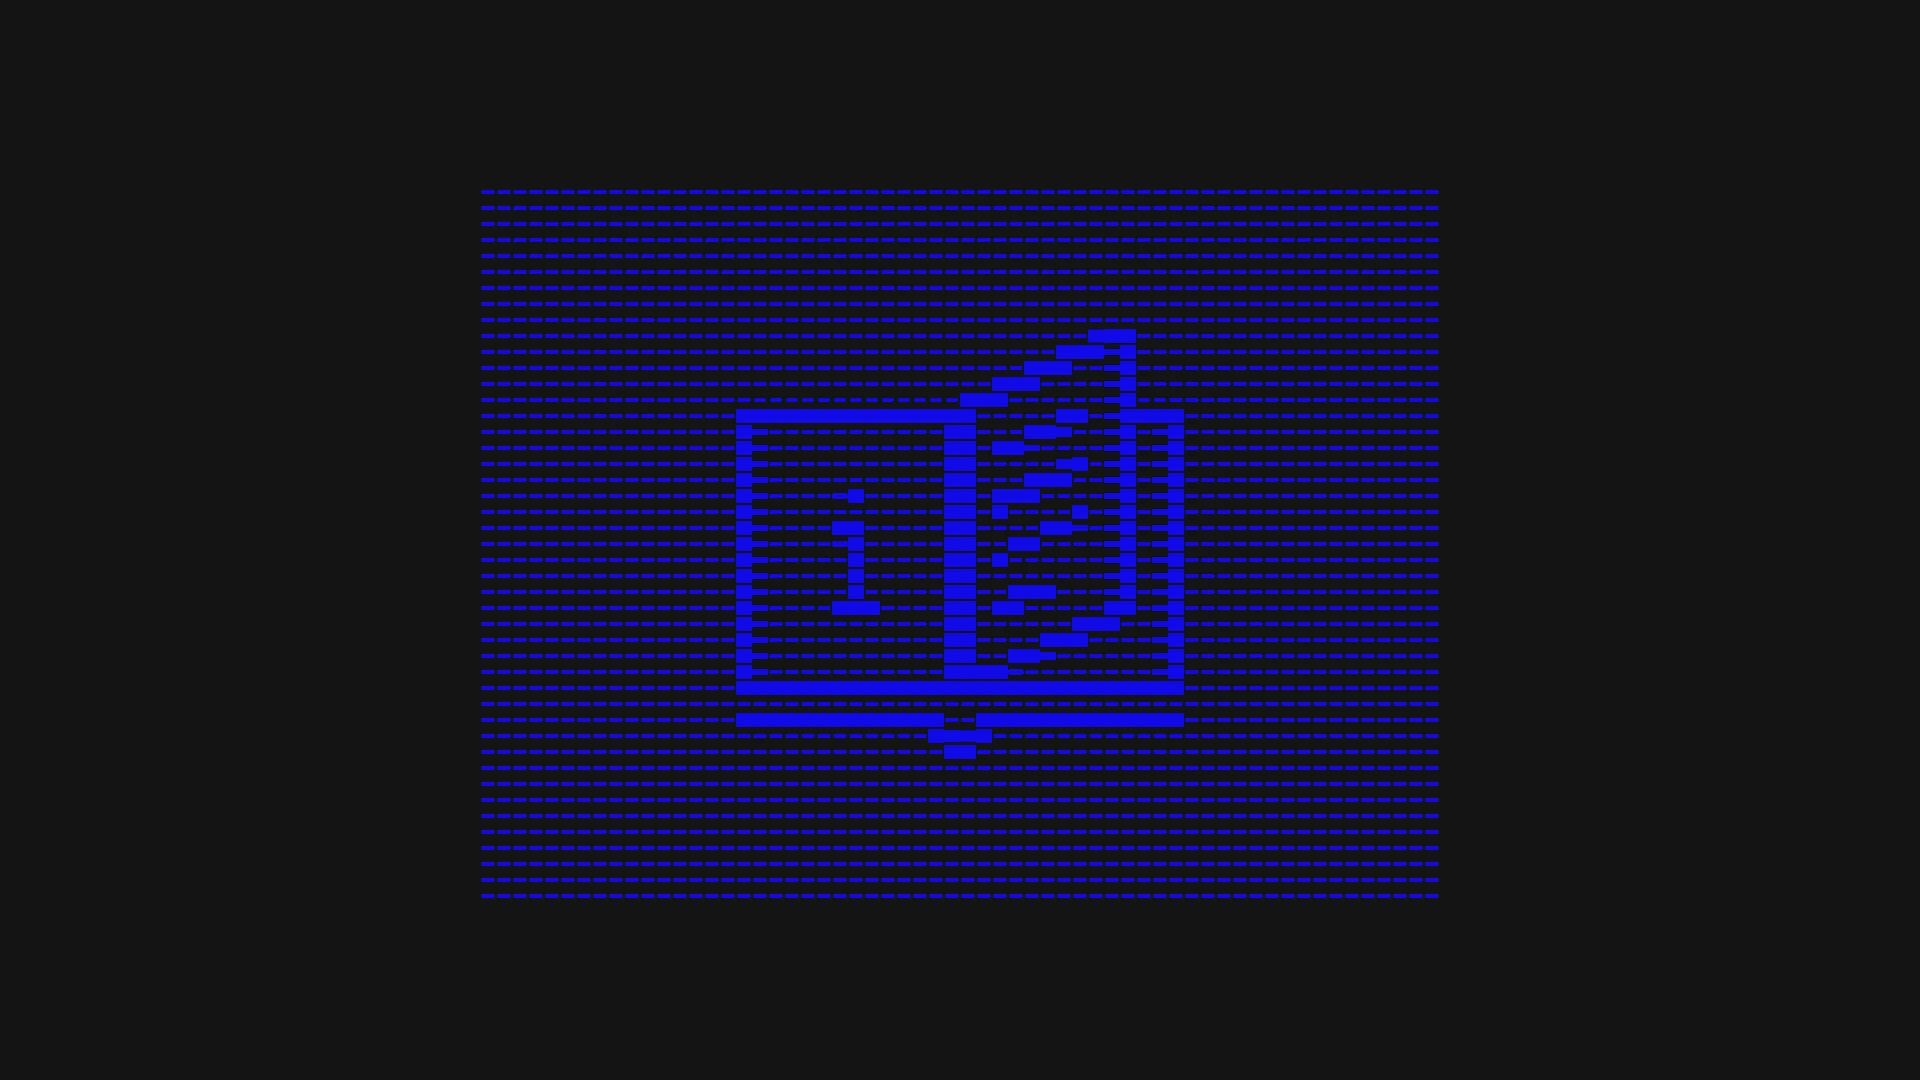
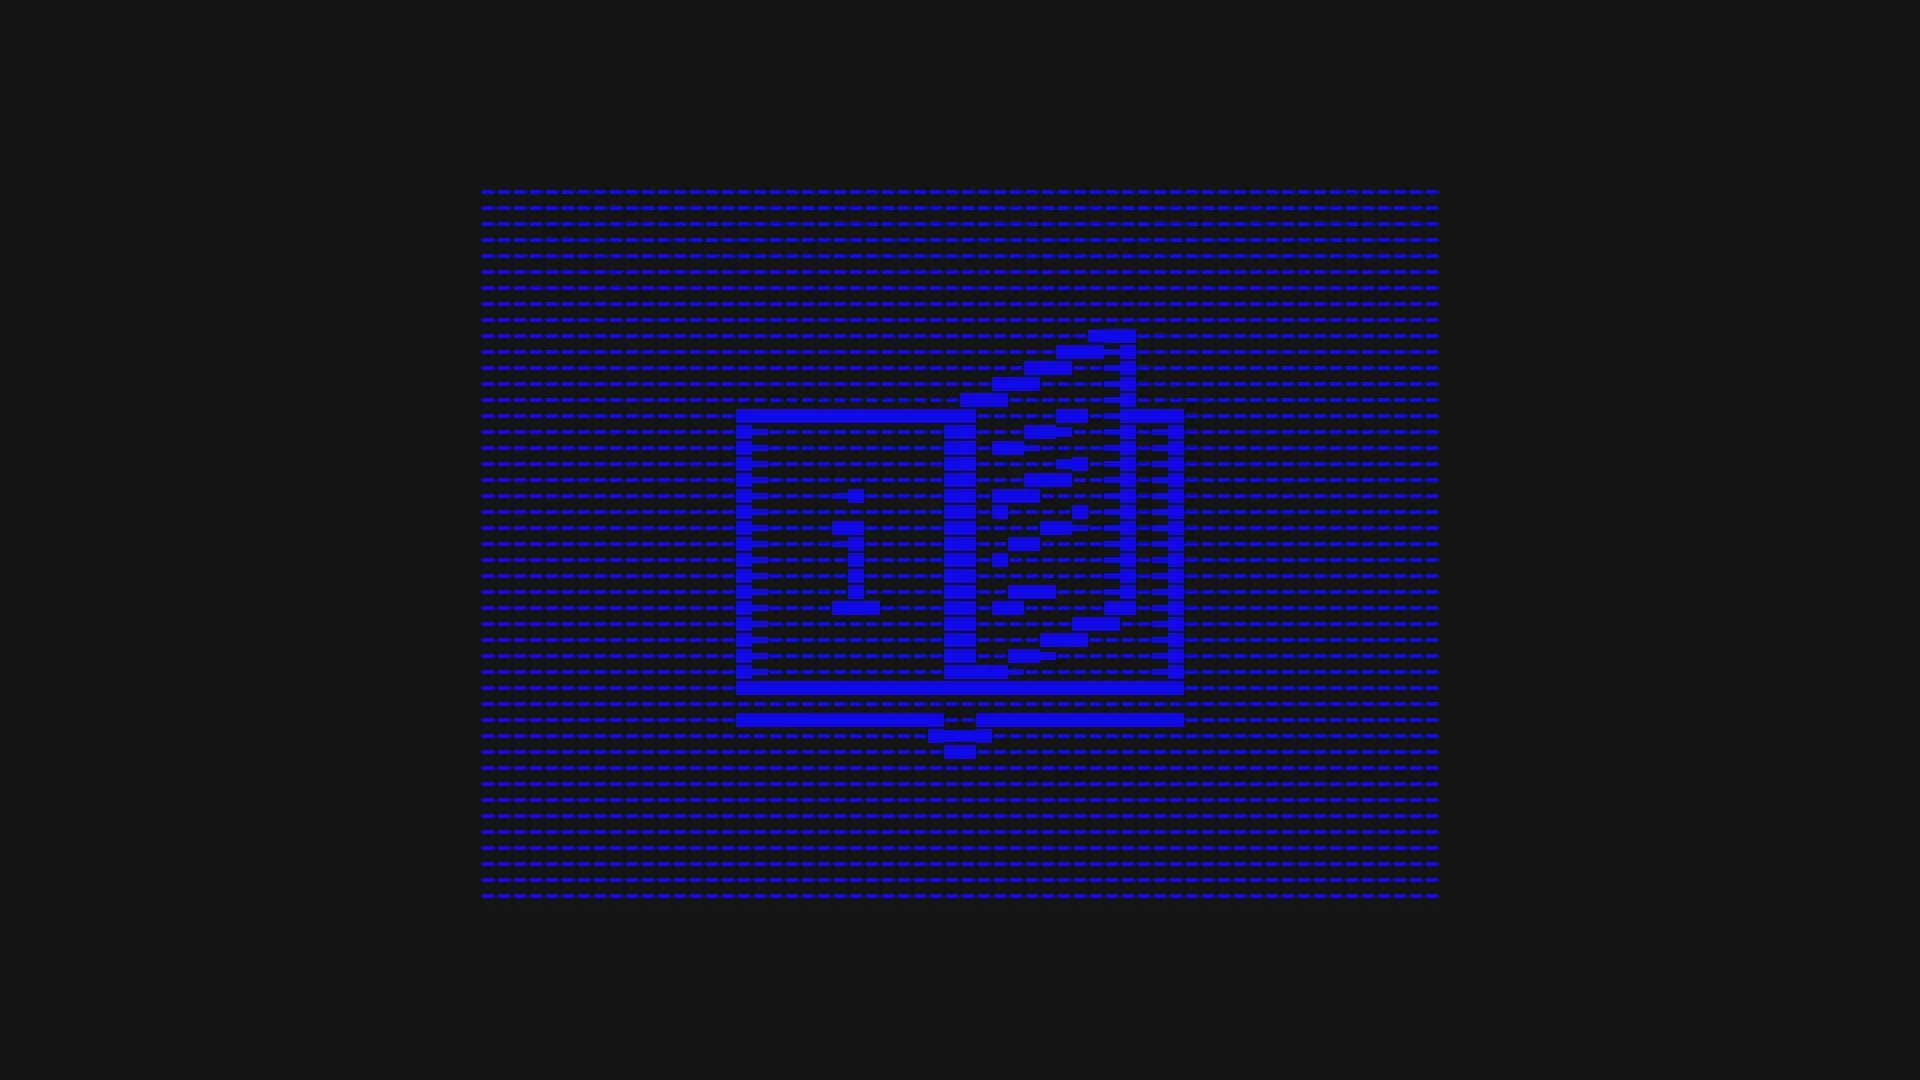
feat(twenty-website-redone): promote Why to top-level nav, hide Product, refine Resources dropdown
Remove Product from the menu and footer navigation, and lift Why out of the
Resources dropdown to the top-level menu in Product's place. (The Product
page itself is unchanged and stays in the SEO sitemap.)

Polish the Resources dropdown:
- Drop the preview frame's min-height (220 -> 160) so the panel no longer
  overhangs the now-shorter four-item list.
- Restore the cleaner, brighter User Guide and Developers preview assets from
  twenty-website (the redone re-exports were dimmer and busier).
- Give User Guide a center + 2x image scale so its narrow halftone field
  fills the frame like Developers, and raise NextImage sizes to 720px so the
  fine halftone stays crisp through that magnification instead of dimming.

Translation catalogs are intentionally not regenerated here; CI owns that.

Changed region(s): [[0.5312, 0.6722, 0.5625, 0.7028]]

diff --git a/packages/twenty-website-redone/src/sections/menu/menu.data.ts b/packages/twenty-website-redone/src/sections/menu/menu.data.ts
@@ -2,7 +2,6 @@ import { type MessageDescriptor } from '@lingui/core';
 import { msg } from '@lingui/core/macro';
 import {
   IconBook,
-  IconBulb,
   IconBrandLinkedin,
   IconBrandX,
   IconCode,
@@ -52,23 +51,10 @@ export const MENU: {
 } = {
   appUrl: SITE_URLS.appWelcome,
   navItems: [
-    { href: '/product', label: msg`Product` },
+    { href: '/why-twenty', label: msg`Why` },
     {
       label: msg`Resources`,
       children: [
-        {
-          label: msg`Why`,
-          description: msg`The story behind Twenty`,
-          href: '/why-twenty',
-          icon: IconBulb,
-          preview: {
-            image: '/images/menu/why.webp',
-            imageAlt: msg`Why Twenty illustration`,
-            imagePosition: 'center',
-            title: msg`Why teams choose Twenty`,
-            description: msg`The principles and product philosophy behind the open source CRM.`,
-          },
-        },
         {
           label: msg`User Guide`,
           description: msg`Learn how to use Twenty`,

diff --git a/packages/twenty-website-redone/src/sections/menu/MenuDropdown.tsx b/packages/twenty-website-redone/src/sections/menu/MenuDropdown.tsx
@@ -123,7 +123,7 @@ const PreviewFrame = styled.div`
   border: 1px solid ${semanticColor.line};
   border-radius: ${radius(2)};
   flex: 1;
-  min-height: 220px;
+  min-height: 160px;
   overflow: hidden;
   position: relative;
   width: 100%;
@@ -206,7 +206,9 @@ export function MenuDropdown({ items }: MenuDropdownProps) {
             <NextImage
               alt={i18n._(activeItem.preview.imageAlt)}
               fill
-              sizes="360px"
+              // 2x the 360px frame: imageScale magnifies the raster, so the
+              // fine halftone needs the scaled resolution to stay crisp.
+              sizes="720px"
               src={activeItem.preview.image}
               style={{
                 objectFit: 'cover',

diff --git a/packages/twenty-website-redone/src/sections/footer/footer.data.ts b/packages/twenty-website-redone/src/sections/footer/footer.data.ts
@@ -38,8 +38,8 @@ export type FooterSocialLink = {
   icon: IconComponent;
 };
 
-// Sitemap now includes Product and Customers — both pages exist in the nav
-// but were missing from the old footer.
+// Sitemap includes Customers — it exists in the nav but was missing from the
+// old footer.
 export const FOOTER: {
   navGroups: readonly FooterNavGroup[];
   socialLinks: readonly FooterSocialLink[];
@@ -50,7 +50,6 @@ export const FOOTER: {
       title: msg`Sitemap`,
       links: [
         { label: msg`Home`, href: '/' },
-        { label: msg`Product`, href: '/product' },
         { label: msg`Pricing`, href: '/pricing' },
         { label: msg`Customers`, href: '/customers' },
         { label: msg`Partners`, href: '/partners' },